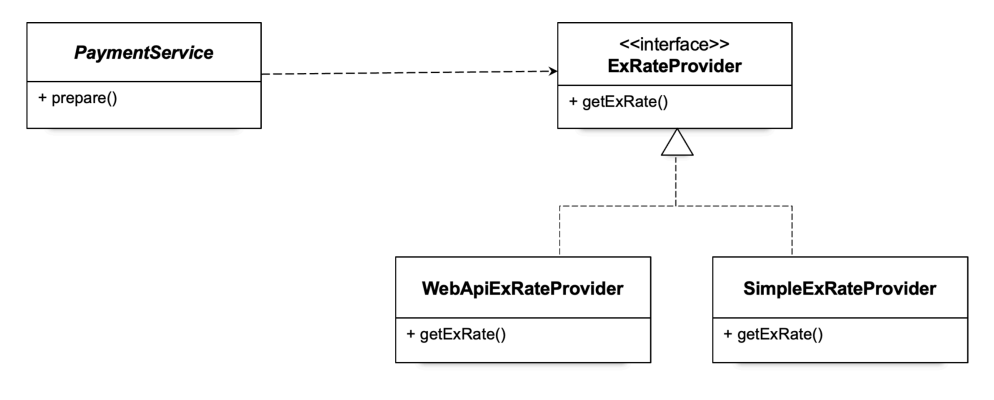
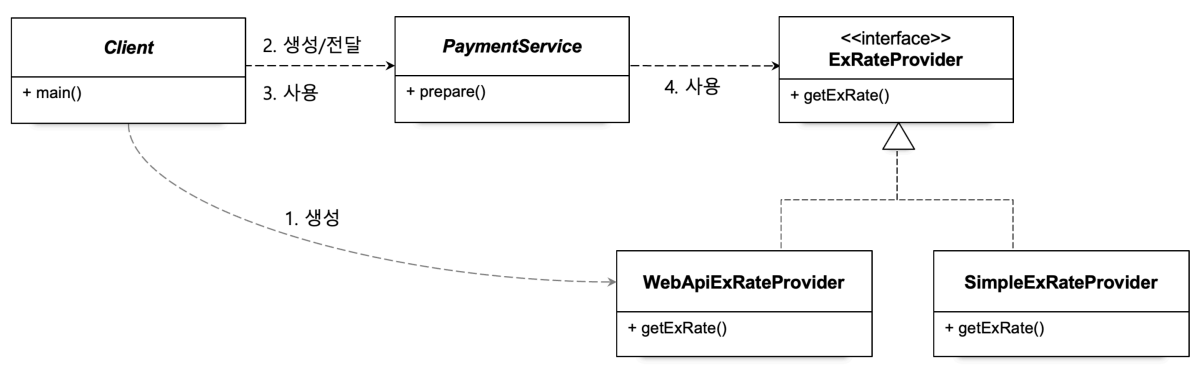
:recycle: 인터페이스 반영

diff --git a/src/main/java/kr/study/spring6/PaymentService.java b/src/main/java/kr/study/spring6/PaymentService.java
@@ -8,10 +8,16 @@ import java.math.BigDecimal;
 import java.time.LocalDateTime;
 
 @Slf4j
-public abstract class PaymentService {
+public class PaymentService {
+    private final ExRateProvider exProvider;
+
+    public PaymentService(ExRateProvider exProvider) {
+        this.exProvider = exProvider;
+    }
+
     // 주문번호, 외국 통화 종류, 외국 통화 기준 결제 금액
     public Payment prepare(Long orderId, Currency currency, BigDecimal amount) throws IOException {
-        BigDecimal exRate = getExRate(currency);
+        BigDecimal exRate = exProvider.getExRate(currency);
 
         //  원화 환산 금액
         BigDecimal convertedAmount = amount.multiply(exRate);
@@ -27,6 +33,4 @@ public abstract class PaymentService {
                 .validUntil(validUntil)
                 .build();
     }
-
-    abstract BigDecimal getExRate(Currency currency) throws IOException;
 }

diff --git a/src/main/java/kr/study/spring6/Client.java b/src/main/java/kr/study/spring6/Client.java
@@ -11,8 +11,8 @@ public class Client {
         Currency currency = Currency.KRW;
         BigDecimal amount = new BigDecimal("10.3");
 
-//        PaymentService paymentService = new WebApiExRatePaymentService();
-        PaymentService paymentService = new SimpleExRatePaymentService();
+//        PaymentService paymentService = new PaymentService(new SimpleExRateProvider());
+        PaymentService paymentService = new PaymentService(new WebApiExRateProvider());
         Payment payment = paymentService.prepare(orderId, currency, amount);
         System.out.println(payment);
     }

diff --git a/src/main/java/kr/study/spring6/WebApiExRateProvider.java b/src/main/java/kr/study/spring6/WebApiExRateProvider.java
@@ -13,9 +13,9 @@ import java.net.URL;
 import java.util.stream.Collectors;
 
 @Slf4j
-public class WebApiExRatePaymentService extends PaymentService {
+public class WebApiExRateProvider implements ExRateProvider {
     @Override
-    BigDecimal getExRate(Currency currency) throws IOException {
+    public BigDecimal getExRate(Currency currency) throws IOException {
 
         //  적용 환율
         // https://open.er-api.com/v6/latest/{기준통화} 이용

diff --git a/src/main/java/kr/study/spring6/SimpleExRateProvider.java b/src/main/java/kr/study/spring6/SimpleExRateProvider.java
@@ -7,9 +7,9 @@ import java.io.IOException;
 import java.math.BigDecimal;
 
 @Slf4j
-public class SimpleExRatePaymentService extends PaymentService {
+public class SimpleExRateProvider implements ExRateProvider {
     @Override
-    BigDecimal getExRate(Currency currency) throws IOException {
+    public BigDecimal getExRate(Currency currency) throws IOException {
 
         return BigDecimal.valueOf(1300);
 

diff --git a/src/main/java/kr/study/spring6/ExRateProvider.java b/src/main/java/kr/study/spring6/ExRateProvider.java
@@ -1,0 +1,10 @@
+package kr.study.spring6;
+
+import kr.study.spring6.type.Currency;
+
+import java.io.IOException;
+import java.math.BigDecimal;
+
+public interface ExRateProvider {
+    BigDecimal getExRate(Currency currency) throws IOException;
+}

diff --git a/docs/2WEEK.md b/docs/2WEEK.md
@@ -6,15 +6,13 @@
 - Template Method 패턴
 ## 인터페이스
 ![](../images/ch02/3_인터페이스.png)
-## 클라이언트
-![](../images/ch02/4_클라이언트.png)
 ## ObjectFactory
-![](../images/ch02/5_ObjectFactory.png)
+![](../images/ch02/4_ObjectFactory.png)
 ## BeanFactory
-![](../images/ch02/6_BeanFactory.png)
+![](../images/ch02/5_BeanFactory.png)
 ## 구성정보
-![](../images/ch02/7_구성정보.png)
+![](../images/ch02/6_구성정보.png)
 ## 캐시
-![](../images/ch02/8_캐시.png)
+![](../images/ch02/7_캐시.png)
 ## DIP
-![](../images/ch02/9_DIP.png)
+![](../images/ch02/8_DIP.png)
